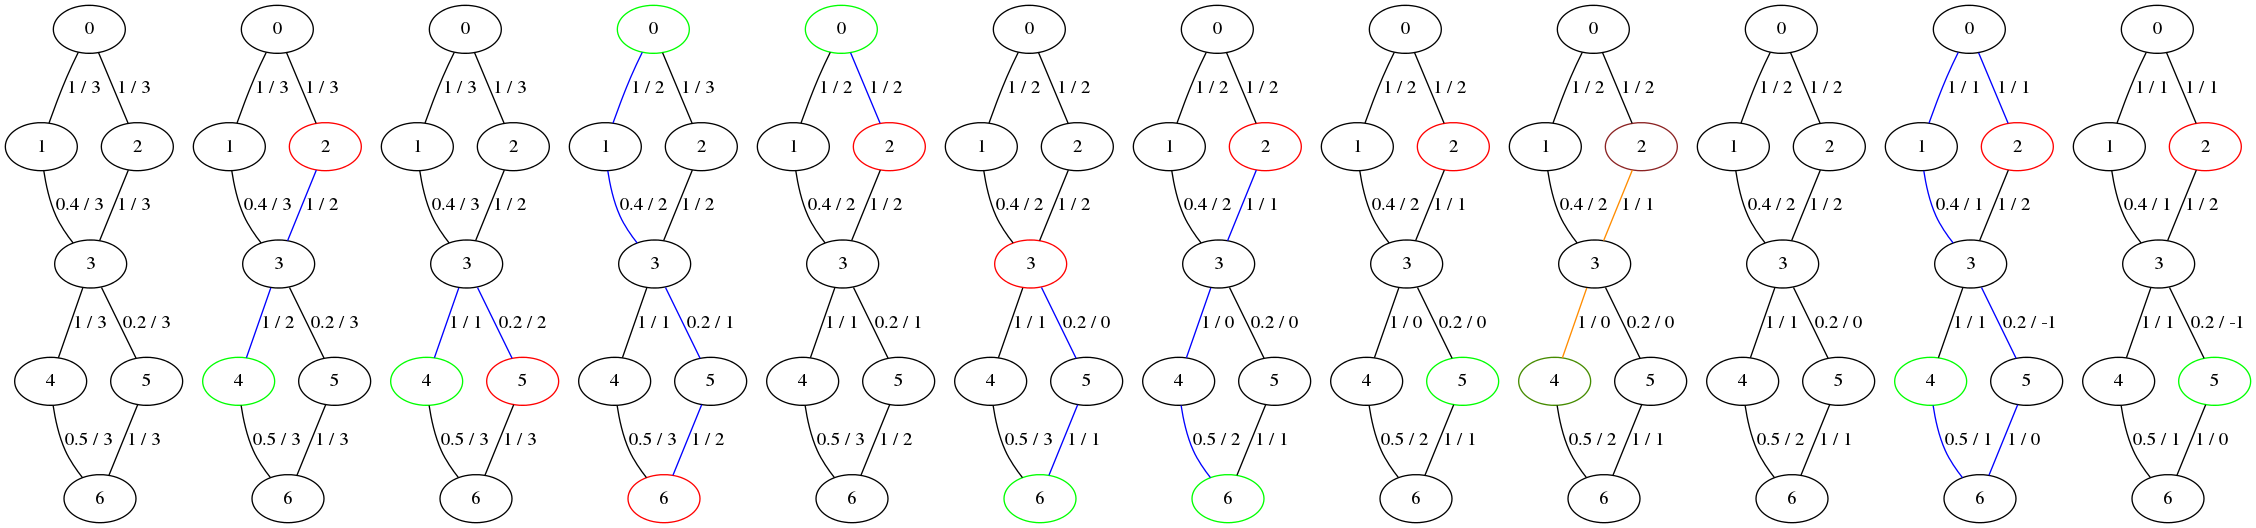
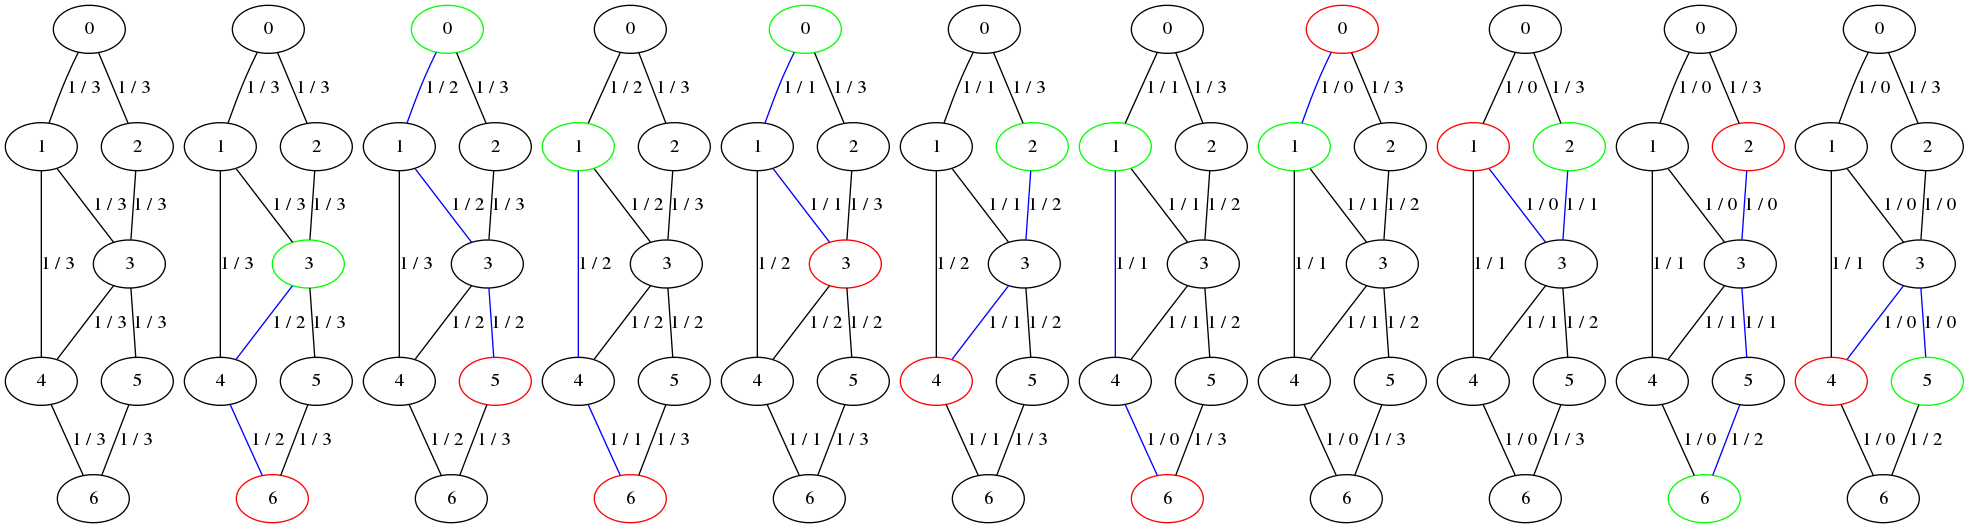
work on shortest intersecting path reroute

diff --git a/pathfinder.py b/pathfinder.py
@@ -24,9 +24,9 @@ import graphFunctions as gf
 
 repeats				= 1
 plot_enable			= True
-number_of_demands		= 7
-path_selection_criterion	= 'lat'
-graph_type			= 'eight'
+number_of_demands		= 10
+path_selection_criterion	= 'hops'
+graph_type			= 'deight'
 bw_variants			= [1]
 lat_variants			= [10]
 
@@ -65,80 +65,83 @@ for j in range(repeats):
 
 	# create all demands
 	d_list=[]
-	demand_dict={}
 	for k in range(number_of_demands):
 		temp_dem = dem.demand(G.nodes(),bw_variants,lat_variants)
 		temp_dem.make_choice()
 		d_list.append(temp_dem)
-		demand_dict[(temp_dem.get_source(),temp_dem.get_target())]=k
+		print 'demand '+str(k)+': '+str(d_list[k].source)+' ==> '+str(d_list[k].target)
 
 	i = 0
 	while(True):
 		print '\n \n########### \n'+str(i)+'th iteration'
 
-		# allocate path in graph	
+		# try to find and allocate path in graph	
 		[G_updated, paths_pack, sel_path]=gf.alloc(G_updated,d_list[i],path_selection_criterion)
 
-		# plot the chosen path
+		# if successful, plot the chosen path
 		if sel_path!=[]:
 			[plot_pngs, plot_counter] = gf.ppng(G_updated, d_list[i], plot_pngs, plot_counter, 1, plot_enable)
+		
+		# otherwise look for rerouting possibilities
 		else:
-			print 'no path found, looking now at previous allocations..\n'
+			print 'No path found, looking now at previous allocations..\n'
+			# check if demand could be allocated in empty graph
 			path_pack_in_empty_graph=gf.shortest_p(G,d_list[i].get_source(),d_list[i].get_target(),d_list[i].get_lat())
+
 			if path_pack_in_empty_graph == []:
-				print 'there is really no path for this demand, no chance!'
+				# demand can never be allocated
+				print 'There is really no path for this demand, no chance!'
+
 			else:
-				# d_n the new demand, which no path could be found for
-				# plot d_n
+				# plot d_n e.g. the current demand, which no path could be found for
 				[plot_pngs, plot_counter] = gf.ppng(G_updated, d_list[i], plot_pngs, plot_counter, 1, plot_enable)
 
-				# Calculate best path p_n for d_n in empty graph
-				print 'The best path in the empty graph would be:'
-				# determine optimal path
+				# calculate best path p_n for d_n in empty graph
 				optimal_path = gf.select_path(path_pack_in_empty_graph, path_selection_criterion)
-				print optimal_path
+				print 'The best path in the empty graph would be: '+str(optimal_path)
 
-				# Find least intersecting demand
-				# find intersections of optimal path with previous allocations				
-				print 'having the following intersections: '
-				intersect_dict=gf.check_setintersection(optimal_path, gf.sel_paths(d_list).values())
-				print intersect_dict
-				if intersect_dict!={}:
+				# find the shoretst intersection path of optimal path with previous allocated paths p_u (according to d_u)			
+				shortest_intersect=gf.check_setintersect(optimal_path, gf.sel_paths(d_list).values())
+				print 'having the shortest intersection path: '+str(shortest_intersect)
+
+				# if intersections found, try to reroute
+				if shortest_intersect!=[]:
 					# find critical intersection path
-					critical_intersect = intersect_dict[min(intersect_dict)]
-					print 'although the critical one is: '+str(critical_intersect)
-					# find according demand
-					print 'therefore rerouting the path from '+str(critical_intersect[0])+' to '+str(critical_intersect[-1])
-					d_u=demand_dict[critical_intersect[0],critical_intersect[-1]]
-					# Look for path for d_u that does not intersect with optimal_path
+					print 'although the shortest_intersect path '+str(shortest_intersect[0])+' ==> '+str(shortest_intersect[-1])+' is: '+str(shortest_intersect)
+					
+					# find critical (corresponding) demand
+					for k in range(len(d_list)):
+						if d_list[k].path == shortest_intersect:			
+							d_u=k
+							break
+
+					# look for paths for d_u that do not intersect with optimal_path
 					d_u_paths=[path for (path,lat,hops) in d_list[d_u].paths_pack]
+					print 'demand number: '+str(d_u)+' to the demand from'+str(d_list[d_u].source)+' to '+str(d_list[d_u].target)
 					print 'which has the following paths stored: '+str(d_u_paths)
-					d_u_intersect_paths=gf.check_setintersection(optimal_path, d_u_paths)
-					# if there are multiple such paths, take the shortest p_u for d_u
-					# if there is no such paths, take the least intersecting one p_u for d_u
-					p_u_index = min(d_u_intersect_paths)
-					p_u=d_u_intersect_paths[p_u_index]
-					# deallocate d_u
-					# plot path to un-allocated
+					p_u=gf.check_setintersect(optimal_path, d_u_paths)
+					print 'the least intersecting with p_n of d_n is '+str(p_u)
+					
+					# plot path to be deallocated
 					[plot_pngs, plot_counter] = gf.ppng(G_updated, d_list[d_u], plot_pngs, plot_counter, 2, plot_enable)
 					number_of_rerouting_attempts+=1
-					# deallocate
+					# deallocate d_u
 					[G_updated] = gf.dealloc(G_updated, d_list[d_u])
 					# plot un-allocated graph
 					[plot_pngs, plot_counter] = gf.ppng(G_updated, None, plot_pngs, plot_counter, 2, plot_enable)
 					# allocate d_u with new path p_u
 					print 'allocate d_u with new path p_u: '+str(p_u)
 					[G_updated, sel_path] = gf.alloc_p(G_updated, d_list[d_u], p_u)
-					# plot p_u with p_u allocated path
+					# plot d_u with p_u allocated path
 					[plot_pngs, plot_counter] = gf.ppng(G_updated, d_list[d_u], plot_pngs, plot_counter, 1, plot_enable)
 					########### mache das folgende nur, wenn das vorher geglueckt ist!!  ##### 
+					
 					# try to allocate d_n
 					[G_updated, paths_pack, sel_path]=gf.alloc(G_updated,d_list[i],path_selection_criterion)
 					if paths_pack!=[]:
-						number_of_rerouting_success+=1	
+						number_of_rerouting_success+=1
 					# plot d_n
 					[plot_pngs, plot_counter] = gf.ppng(G_updated, d_list[i], plot_pngs, plot_counter, 1, plot_enable)
-
 
 
 							
@@ -166,7 +169,6 @@ for j in range(repeats):
 	gf.util_histo(G, G_updated, plot_enable)
 	print 'sel path book:\n'+str(gf.sel_paths(d_list))
 
-
 	# plot
 	if plot_enable:
 		os.system('convert '+plot_pngs+' +append topo.png')
@@ -174,8 +176,7 @@ for j in range(repeats):
 		os.system('eog topo.png')
 
 	
-	
-
+# print out stats for repeats
 if repeats>1:
 	print '\n \n \nnumber of rerouting attempts: '+str(number_of_rerouting_attempts_pool)
 	print '\navg acceptance ratio: '+str(sum(acceptance_ratio_pool)/len(acceptance_ratio_pool))

diff --git a/graphFunctions.py b/graphFunctions.py
@@ -42,7 +42,7 @@ def alloc(G, d, path_selection_criterion):
 		# store sel path in demand
 		d.set_allocated()
 		d.set_path(sel_path)
-		print 'Allocating path '+str(d.path)
+		print 'Allocated path '+str(d.get_path())
 		# update graph
 		G_updated=update_edges(G_updated, sel_path, d.get_bw())
 
@@ -280,14 +280,16 @@ def cmpT(tuple1, tuple2):
 	else:
 		return 0
 
-# check 1 path vs. a set of paths of having same edges
-def check_setintersection(path, pathset):
-	intersect_list={}
+# check 1 path vs. a set of paths and return the shortest intersecting path
+def check_setintersect(path, pathset):
+	min_degree=None
+	shortest_intersect=[]
 	for i in range(len(pathset)):
 		degree = check_intersect(path,pathset[i])
-		if degree>0:
-			intersect_list[degree]=pathset[i]
-	return intersect_list
+		if degree<min_degree or min_degree==None:
+			shortest_intersect=pathset[i]
+			min_degree=degree
+	return shortest_intersect
 
 # check 2 paths on having some of the same edges
 def check_intersect(path1, path2):

diff --git a/customGraph.py b/customGraph.py
@@ -8,12 +8,27 @@ def make(name):
 		# add nodes and edges to the graph
 		G.add_edge(0,1, bw=3, lat=1)
 		G.add_edge(0,2, bw=3, lat=1)
-		G.add_edge(1,3, bw=3, lat=0.4)
+		G.add_edge(1,3, bw=3, lat=1)
 		G.add_edge(2,3, bw=3, lat=1)
 		G.add_edge(3,4, bw=3, lat=1)
-		G.add_edge(3,5, bw=3, lat=0.2)
-		G.add_edge(4,6, bw=3, lat=0.5)
+		G.add_edge(3,5, bw=3, lat=1)
+		G.add_edge(4,6, bw=3, lat=1)
 		G.add_edge(5,6, bw=3, lat=1)
+		return G
+
+	if name=='deight':
+		G=nx.Graph()
+
+		# add nodes and edges to the graph
+		G.add_edge(0,1, bw=3, lat=1)
+		G.add_edge(0,2, bw=3, lat=1)
+		G.add_edge(1,3, bw=3, lat=1)
+		G.add_edge(2,3, bw=3, lat=1)
+		G.add_edge(3,4, bw=3, lat=1)
+		G.add_edge(3,5, bw=3, lat=1)
+		G.add_edge(4,6, bw=3, lat=1)
+		G.add_edge(5,6, bw=3, lat=1)
+		G.add_edge(1,4, bw=3, lat=1)
 		return G
 	
 	elif name=='srg':
